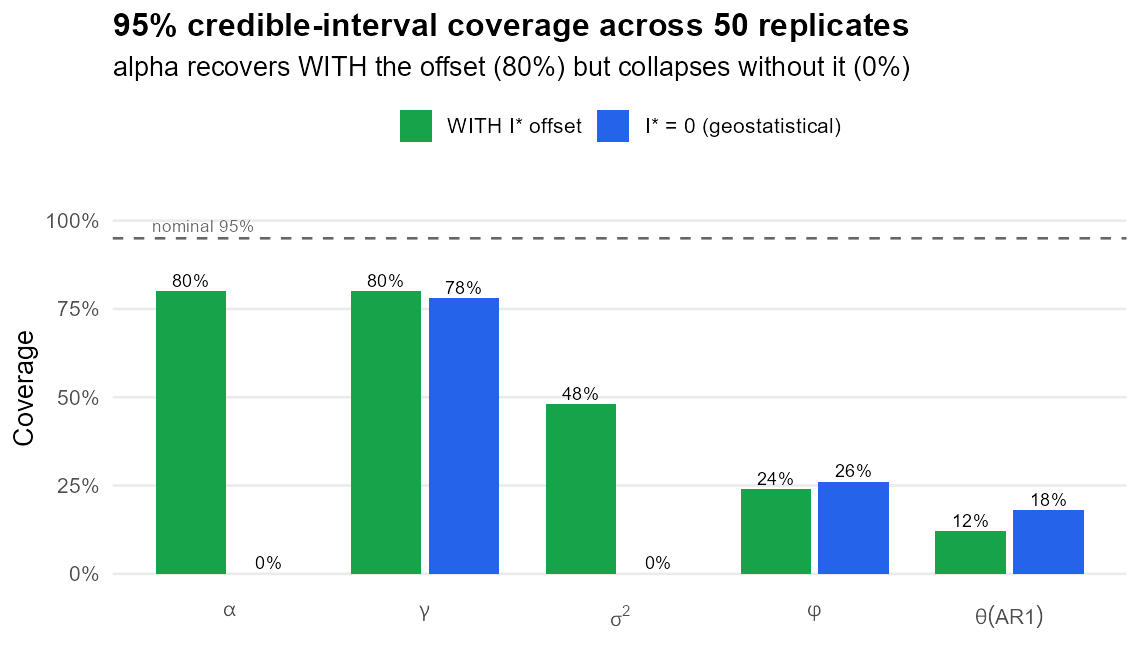
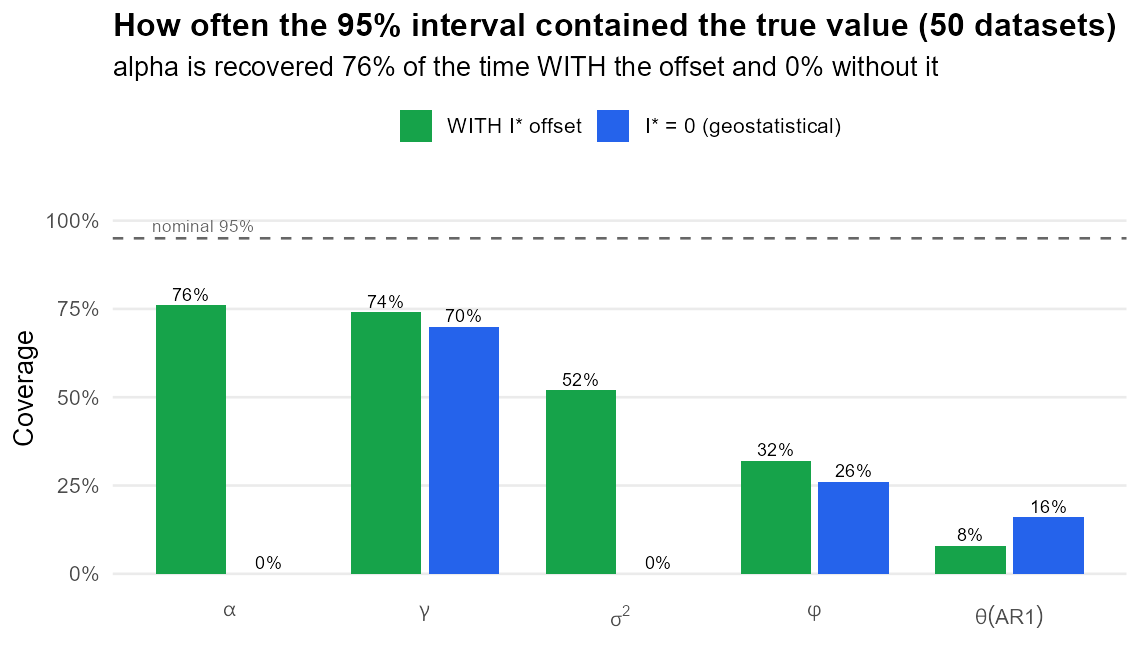
docs(slides): use authoritative Workbench 50-rep numbers
Replace the local run's numbers with the Workbench run (2026-08-11):
- alpha coverage 76% (was 80%); gamma 74%/70%
- GP hyperparameter R-hat range 2.1-4.1
- regenerate coverage/R-hat plots from the Workbench study
- plain-language plot titles (define coverage in words)

diff --git a/presentations/slidev/pages/09b-validation-results-updated.md b/presentations/slidev/pages/09b-validation-results-updated.md
@@ -15,15 +15,15 @@ I simulated 50 datasets from the model, fitted both versions to each, and asked 
 <div class="col-span-2 text-xs flex flex-col gap-2">
 
 <div class="p-2 rounded-lg bg-gray-50 border border-gray-300">
-<b>What the plot means.</b> α is the intercept on the log-incidence scale, so it sets the overall level of infection incidence. Coverage is the fraction of the 50 datasets in which the 95% credible interval for a parameter contained the true value. "80% coverage for α" means the interval contained the true α in 40 of the 50 runs.
+<b>What the plot means.</b> α is the intercept on the log-incidence scale, so it sets the overall level of infection incidence. Coverage is the fraction of the 50 datasets in which the 95% credible interval for a parameter contained the true value. "76% coverage for α" means the interval contained the true α in 38 of the 50 runs.
 </div>
 
 <div class="p-2 rounded-lg bg-green-50 border border-green-300">
-<b>Main result.</b> The model recovers α in 80% of runs when it uses the vector offset I*, and in none of the runs when the offset is removed (I* = 0). The vector information is what lets the model recover the overall level of incidence.
+<b>Main result.</b> The model recovers α in 76% of runs when it uses the vector offset I*, and in none of the runs when the offset is removed (I* = 0). The vector information is what lets the model recover the overall level of incidence.
 </div>
 
 <div class="p-2 rounded-lg bg-blue-50 border border-blue-300">
-<b>Reporting rate γ.</b> γ is recovered in about 80% of runs either way, because the prevalence surveys inform it directly regardless of the offset.
+<b>Reporting rate γ.</b> γ is recovered in about three-quarters of runs either way (74% with the offset, 70% without), because the prevalence surveys inform it directly regardless of the offset.
 </div>
 
 </div>
@@ -37,5 +37,5 @@ I simulated 50 datasets from the model, fitted both versions to each, and asked 
 </div>
 
 <!--
-This replaces the single-run slide from March, and I have rewritten it so the terms are defined on the slide. Alpha is the intercept on the log-incidence scale — it sets the overall level of infection incidence. Coverage is the fraction of the fifty simulated datasets in which the ninety-five percent credible interval for a parameter contained the true value I used to simulate that dataset. So eighty percent coverage for alpha means that in forty of the fifty runs, the interval I estimated contained the true alpha. The plot shows this per parameter, green for the model with the vector offset and blue for the model without it. Alpha is recovered eighty percent of the time with the offset and zero percent without it — the vector information is what lets the model pin down the overall level of incidence. Gamma, the reporting rate, is recovered either way because the prevalence surveys inform it. The caveat David raised in Melbourne is that thirty percent prevalence-survey coverage is unrealistically high, so I need to re-run this with survey numbers taken from real prevalence data before claiming the result holds in practice.
+This replaces the single-run slide from March, and I have rewritten it so the terms are defined on the slide. Alpha is the intercept on the log-incidence scale — it sets the overall level of infection incidence. Coverage is the fraction of the fifty simulated datasets in which the ninety-five percent credible interval for a parameter contained the true value I used to simulate that dataset. So seventy-six percent coverage for alpha means that in thirty-eight of the fifty runs, the interval I estimated contained the true alpha. The plot shows this per parameter, green for the model with the vector offset and blue for the model without it. Alpha is recovered seventy-six percent of the time with the offset and zero percent without it — the vector information is what lets the model pin down the overall level of incidence. Gamma, the reporting rate, is recovered either way because the prevalence surveys inform it. The caveat David raised in Melbourne is that thirty percent prevalence-survey coverage is unrealistically high, so I need to re-run this with survey numbers taken from real prevalence data before claiming the result holds in practice.
 -->

diff --git a/presentations/slidev/pages/11b-mcmc-diagnostics-updated.md b/presentations/slidev/pages/11b-mcmc-diagnostics-updated.md
@@ -17,11 +17,11 @@ layout: default
 </div>
 
 <div class="p-2 rounded-lg bg-green-50 border border-green-300">
-<b>What now mixes.</b> After running 4 chains of 2000 iterations (Punam), α and γ have R-hat between 1.02 and 1.10, with 500–790 effective samples. Their mixing is fine.
+<b>What now mixes.</b> After running 4 chains of 2000 iterations (Punam), α and γ have R-hat between 1.02 and 1.12, with roughly 460–960 effective samples. Their mixing is fine.
 </div>
 
 <div class="p-2 rounded-lg bg-red-50 border border-red-300">
-<b>What does not.</b> The GP hyperparameters φ, σ² and θ still have R-hat between 2.2 and 3.7 across all 50 datasets. Because this holds over 50 datasets, it is a real mixing problem, not a one-run fluke.
+<b>What does not.</b> The GP hyperparameters φ, σ² and θ still have R-hat between 2.1 and 4.1 across all 50 datasets. Because this holds over 50 datasets, it is a real mixing problem, not a one-run fluke.
 </div>
 
 </div>
@@ -35,5 +35,5 @@ layout: default
 </div>
 
 <!--
-In March I put three questions on this slide about convergence. Here is where they stand. R-hat is a convergence check — it compares the separate MCMC chains, sits near one when they agree, and above about one point one when they have not settled on the same answer. After running four chains of two thousand iterations, which was Punam's suggestion, alpha and gamma now mix well — R-hat near one, healthy effective sample sizes. But the GP hyperparameters, phi, sigma-squared and theta, still do not, with R-hat between two point two and three point seven, and they do so across all fifty datasets, which tells me it is a real mixing problem rather than a one-run fluke. The cause is in the simulation design: with phi set to three on coordinates rescaled to a zero-to-one square, every pair of sites is more than eighty-six percent correlated, so the data genuinely cannot distinguish one lengthscale from another. More iterations cannot fix that. The plan is Punam's prior predictive check, and a penalised-complexity prior on phi.
+In March I put three questions on this slide about convergence. Here is where they stand. R-hat is a convergence check — it compares the separate MCMC chains, sits near one when they agree, and above about one point one when they have not settled on the same answer. After running four chains of two thousand iterations, which was Punam's suggestion, alpha and gamma now mix well — R-hat near one, healthy effective sample sizes. But the GP hyperparameters, phi, sigma-squared and theta, still do not, with R-hat between two point one and four point one, and they do so across all fifty datasets, which tells me it is a real mixing problem rather than a one-run fluke. The cause is in the simulation design: with phi set to three on coordinates rescaled to a zero-to-one square, every pair of sites is more than eighty-six percent correlated, so the data genuinely cannot distinguish one lengthscale from another. More iterations cannot fix that. The plan is Punam's prior predictive check, and a penalised-complexity prior on phi.
 -->

diff --git a/presentations/slidev/pages/07b-non-identifiability-updated.md b/presentations/slidev/pages/07b-non-identifiability-updated.md
@@ -32,7 +32,7 @@ The correction (Nick): the prevalence likelihood must depend on the modelled inc
 
 ### Result across 50 datasets
 
-With the offset, the model recovers α in 80% of the simulated datasets. Without it (I\* = 0), α is recovered in none of them.
+With the offset, the model recovers α in 76% of the simulated datasets. Without it (I\* = 0), α is recovered in none of them.
 
 Caveat (Melbourne, David): this used 30% survey coverage, which is unrealistically high — to be re-tested with real survey numbers.
 
@@ -47,5 +47,5 @@ Caveat (Melbourne, David): this used 30% survey coverage, which is unrealistical
 </div>
 
 <!--
-This is the slide that changed the most in substance, and I have rewritten it to talk about infection incidence rather than only cases, to match the earlier approach slide. The model treats case counts as a reporting fraction of infection incidence. With case counts alone, alpha the incidence intercept and gamma the reporting rate trade off exactly — you can raise one and lower the other and get identical case counts — so only their product is identifiable. In March I told you the dual likelihood had not fixed this and asked whether we needed more surveys. That was the wrong diagnosis. The prevalence likelihood was written against X, the mechanistic prevalence, which does not contain alpha, so it could never separate alpha from gamma. Nick's correction is to make prevalence depend on I, the modelled incidence, which does contain alpha. With that change the fifty-replicate study recovers alpha eighty percent of the time with the offset and never without it. The caveat David raised is that thirty percent survey coverage is unrealistically high, so I need to re-test with realistic survey numbers.
+This is the slide that changed the most in substance, and I have rewritten it to talk about infection incidence rather than only cases, to match the earlier approach slide. The model treats case counts as a reporting fraction of infection incidence. With case counts alone, alpha the incidence intercept and gamma the reporting rate trade off exactly — you can raise one and lower the other and get identical case counts — so only their product is identifiable. In March I told you the dual likelihood had not fixed this and asked whether we needed more surveys. That was the wrong diagnosis. The prevalence likelihood was written against X, the mechanistic prevalence, which does not contain alpha, so it could never separate alpha from gamma. Nick's correction is to make prevalence depend on I, the modelled incidence, which does contain alpha. With that change the fifty-replicate study recovers alpha seventy-six percent of the time with the offset and never without it. The caveat David raised is that thirty percent survey coverage is unrealistically high, so I need to re-test with realistic survey numbers.
 -->
